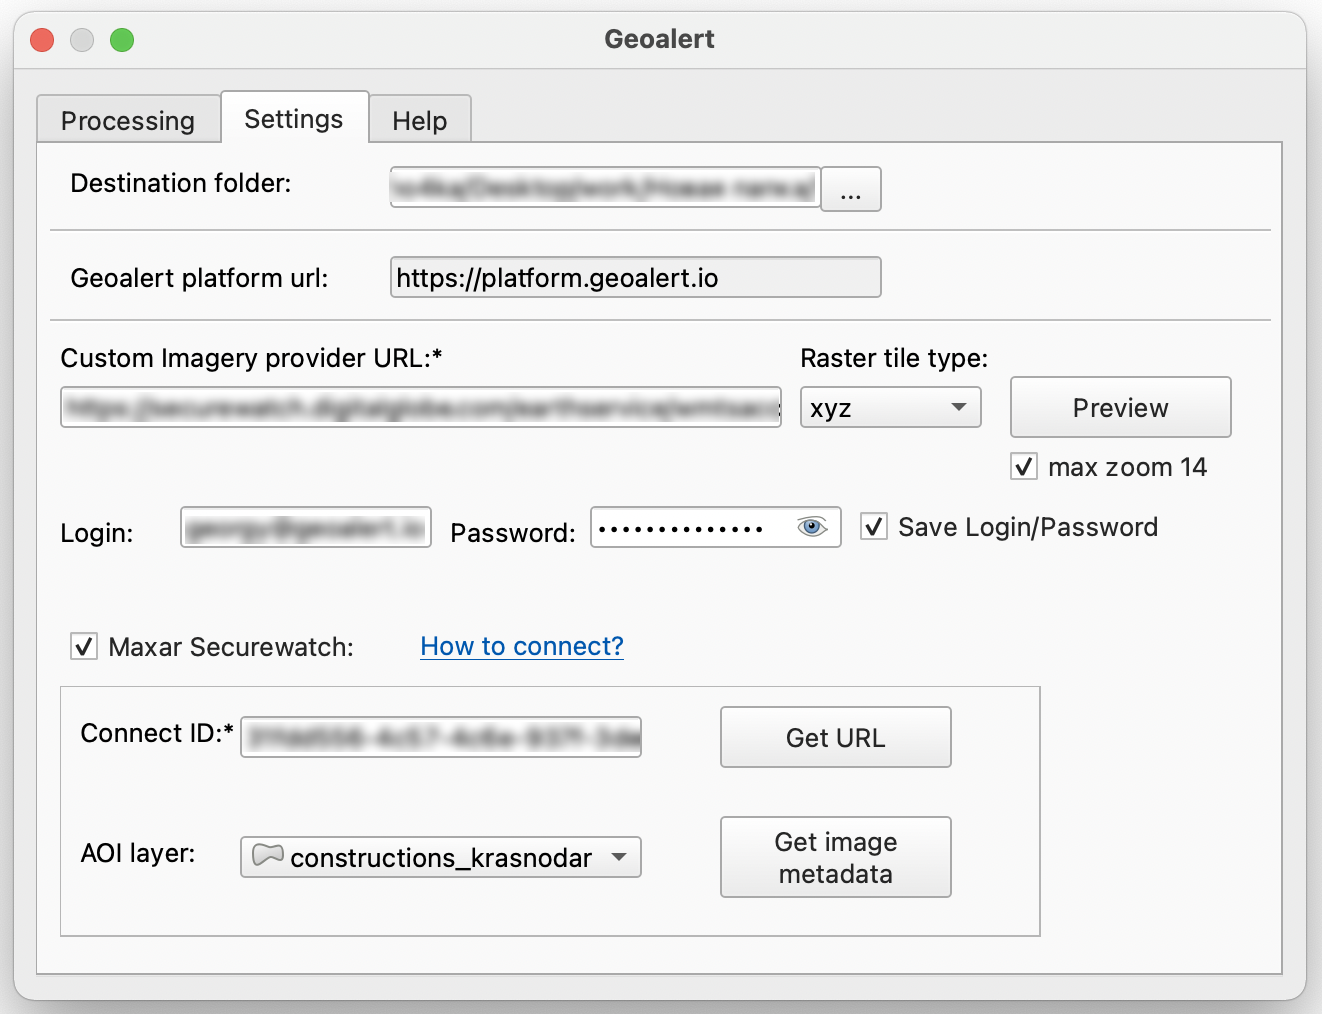
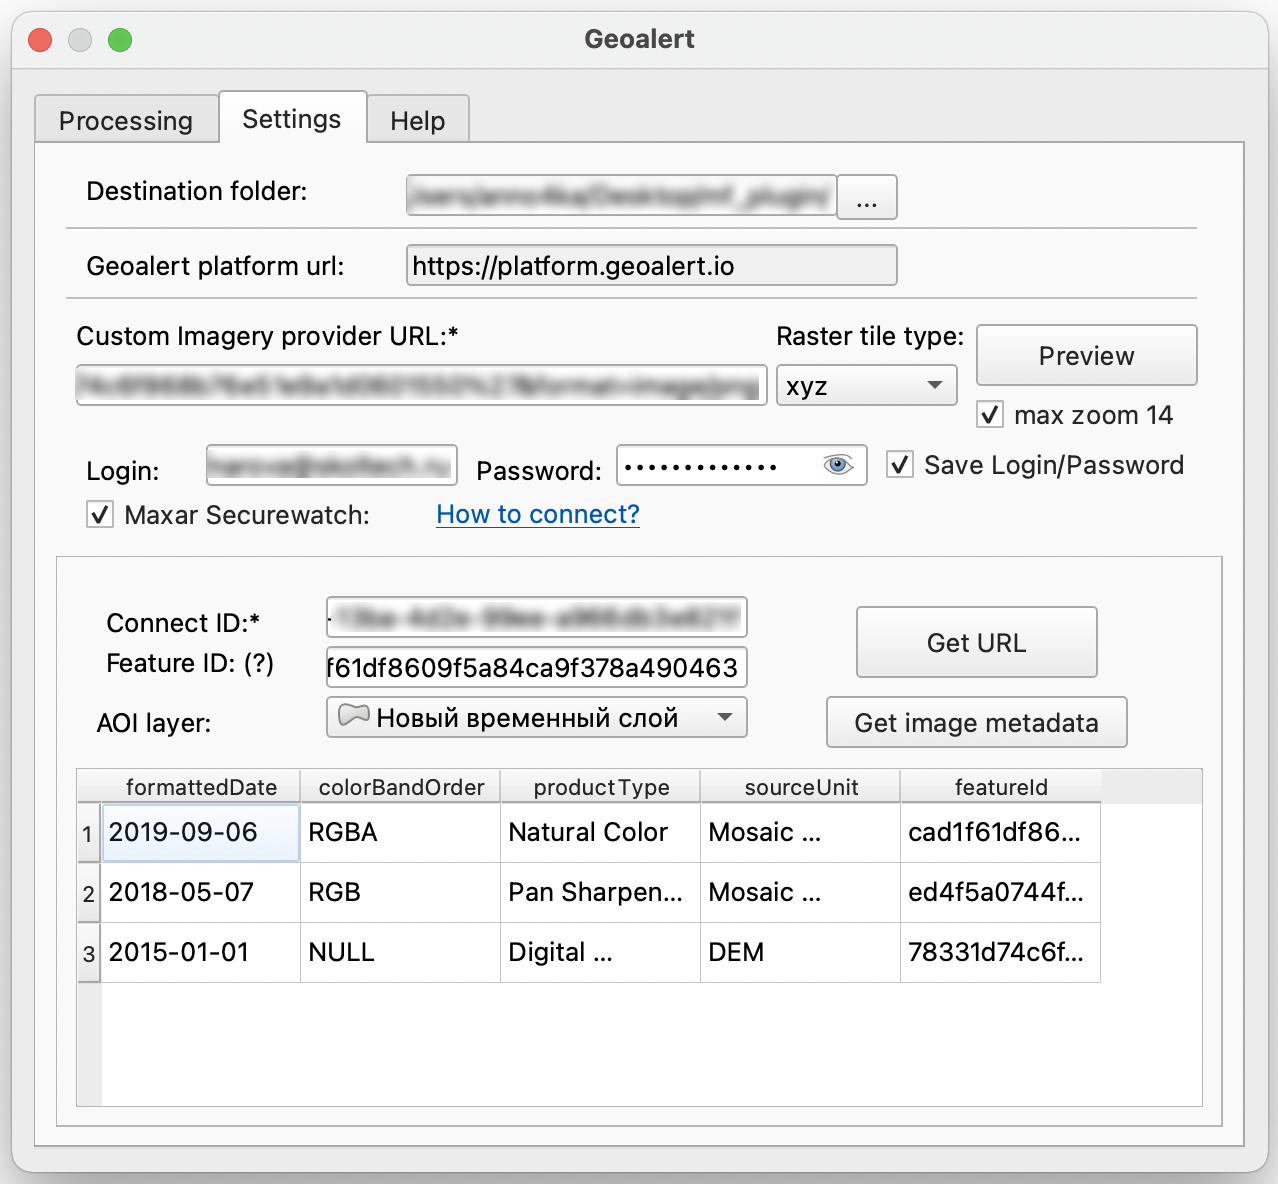
Fix typos

diff --git a/docs_api/qgis_mapflow.rst b/docs_api/qgis_mapflow.rst
@@ -21,7 +21,7 @@ QGIS
 
 - Processing (Обработка);
 - Settings (Настройки);
-- Help (Справка);
+- Help (Справка).
 
 1. Processing
 ~~~~~~~~~~~~~~~
@@ -53,7 +53,8 @@ QGIS
         - *Forest Detection* (определение леса);
         - *Buildings detection With Heights* (определение зданий с высотами);
         - *Forest Detection With Heights* (определение леса с высотами).
-        - *Imagery source*. Подложка. По умолчанию выбрано Mapbox Satellite, в выпадающем списке также можно выбрать Custom (см.  Settings) и Open new .tif.
+    
+    *Imagery source*. Подложка. По умолчанию выбрано Mapbox Satellite, в выпадающем списке также можно выбрать Custom (см.  Settings) и Open new .tif.
 
     *Update image in cache*. Обновить изображение обработки в кэше.
 
@@ -103,6 +104,8 @@ QGIS
 *Connect ID*. Идентификатор подключения к ресурсам SecureWatch. 
 
 *Get URL*. Кнопка для получения URL-адреса поставщика данных спутниковой съёмки Maxar.
+
+*Feature ID*. Идентификатор изображения, пересекающегося с выбранной AOI областью, полученный из meta-данных.
 
 *AOI layer*. Область, по которой будут представлены meta-данные.
 
@@ -160,7 +163,7 @@ QGIS
          :width: 15cm
 
      .. attention::
-         Обратите внимание, что **Connect ID** для разный в зависимости от доступных вам продуктов спутниковых мозаик. Поэтому выберите изначально ту, которая вам подходит. Для этого закройте окно *User Profile* и в строке заголовка выберите нужный из предложенных продуктов (например **Vivid** или **SecureWatch**, но их перечень зависит от условий вашего тарифного плана).
+         Обратите внимание, что **Connect ID** разный в зависимости от доступных вам продуктов спутниковых мозаик. Поэтому выберите изначально ту, которая вам подходит. Для этого закройте окно *User Profile* и в строке заголовка выберите нужный из предложенных продуктов (например, **Vivid** или **SecureWatch**, но их перечень зависит от условий вашего тарифного плана).
 
      4.4. Вернитесь в QGIS к плагину **Geoalert**, в поле *Connect ID* вставьте скопированный индентификатор.
    
@@ -174,31 +177,31 @@ QGIS
 
 Используя SW, вы можете найти и обработать снимок на интересующую область, используя поиск по всем доступным данным.
 
-1. Перейдите в настройки Maxar SecureWatch
+1. Активируйте рабочую область настройки *Maxar SecureWatch*.
 
-2. С помощью выпадающего списка "AOI layer" выберите границы интересующей вас области обработки
+2. С помощью выпадающего списка *AOI layer* выберите границы интересующей вас области обработки.
 
 .. note::
-    Область должна быть создана или загружена из файла, как полигональный векторный слой QGIS
+    Область должна быть создана или загружена из файла, как полигональный векторный слой QGIS.
 
      .. figure:: _static/qgis/add_SW_WFS.png
          :alt: Get specific image from SW
          :align: center
          :width: 15cm    
 
-3. Нажмите на кнопку "Get image metadata", чтобы просмотреть все имеющиеся снимки, перескающиеся с вашей областью обработки
+3. Нажмите  *Get image metadata*, чтобы просмотреть все имеющиеся снимки, перескающиеся с вашей областью обработки.
 
-4. С помощью списка выберите наиболее подходящий снимок и выделите его в списке
+4. С помощью выведенного списка полученных снимков, выберите наиболее подходящий для вас из перечня и выделите его в списке.
 
 .. note::
-    Метаданные найденных снимков загружаются с использованием протокола WFS и отображаются в виде векторного слоя в дереве слоев. Вы можете работать с ним, как с любым векторным слоям, оперируя всеми атрибутами таблицы атрибутов
+    Метаданные найденных снимков загружаются с использованием протокола WFS и отображаются в виде векторного слоя в дереве слоев. Вы можете работать с ним, как с любым векторным слоям, оперируя всеми атрибутами таблицы атрибутов.
 
-5. Нажмите *Get URL*, чтобы сформировать запрос к выбронному снимку (параметр "Feature ID")
+5. Нажмите *Get URL*, чтобы сформировать запрос к выбронному снимку (параметр *Feature ID*).
 
-6. Нажмите *Preview*, чтобы просмотреть выбранный снимок в отдельном растровом слое
+6. Нажмите *Preview*, чтобы просмотреть выбранный снимок в отдельном растровом слое.
 
 .. attention::
-    Параметр "max zoom 14" служит для ограничения расхода платного трафика на стороне сервиса SecureWatch. Если вы хотите просматривать снимок в полном разрешении - отключите чекбокс и заново нажмите *Preview*
+    Параметр *max zoom 14* служит для ограничения расхода платного трафика на стороне сервиса SecureWatch. Если вы хотите просматривать снимок в полном разрешении - отключите чекбокс и заново нажмите *Preview*.
 
 
 
@@ -207,12 +210,12 @@ QGIS
 
 Вы можете ввести URL-адрес источника данных спутниковой съёмки в одном из следующих форматов:
 
-* XYZ
-* TMS
-* WMS
-* Quadkey
+* XYZ;
+* TMS;
+* WMS;
+* Quadkey.
 
-Все форматы представляют собой наиболее широко используемые стандарты для получения изображений с географической привязкой через http
+Все форматы представляют собой наиболее широко используемые стандарты для получения изображений с географической привязкой через http.
 
 
 Как обрабатывать ваши собственные изображения

diff --git a/docs_userguides/pipelines.rst b/docs_userguides/pipelines.rst
@@ -13,9 +13,7 @@
 
 * **Высоты зданий** - Определение высоты зданий по косвенными признакам - длине тени и видимой части стены. Сдвиг на основание.
 
-|:cityscape:| **Плотная застройка**
-
-Модель автоматического картирования зданий, специально обученная для областей с высокой плотностью застройки. Она дает более точные результаты для мест, где преобладает террасная и подобная плотная застройка. Например, на Ближнем Востоке, во многих странах Африки и т.д.
+* **Плотная застройка** - Модель автоматического картирования зданий, специально обученная для областей с высокой плотностью застройки. Она дает более точные результаты для мест, где преобладает террасная и подобная плотная застройка. Например, на Ближнем Востоке, во многих странах Африки и т.д.
 
 |:christmas_tree:| **Лес** 
 
@@ -24,8 +22,6 @@
 Дополнительные опции:
 
 * **Высоты леса** – Разделение области древесно-кустарниковой растительности на высотные классы по заданным порогам: 0-4 м, 4-10 м, 10+ м. Участки леса каждого высотного класса сохраняются в отдельных полигонах, высотный класс указывается в его свойствах.
-
-* **Классификация** – Классификация участков леса по плотности зарастаний: высокий плотный лес, низкая кустарниковая растительность, редколесье. 
 
 |:red_car:| **Дороги** 
 
@@ -39,7 +35,7 @@
 
 |:building_construction:| **Строительство** 
 
-Классификация изображений на спутниковых снимках высокого разрешения для определения стройплощадок и строящихся объектов.
+Выделение масок строек на спутниковых снимках высокого разрешения для определения стройплощадок и строящихся объектов.
 
 
 Справочник по моделям
